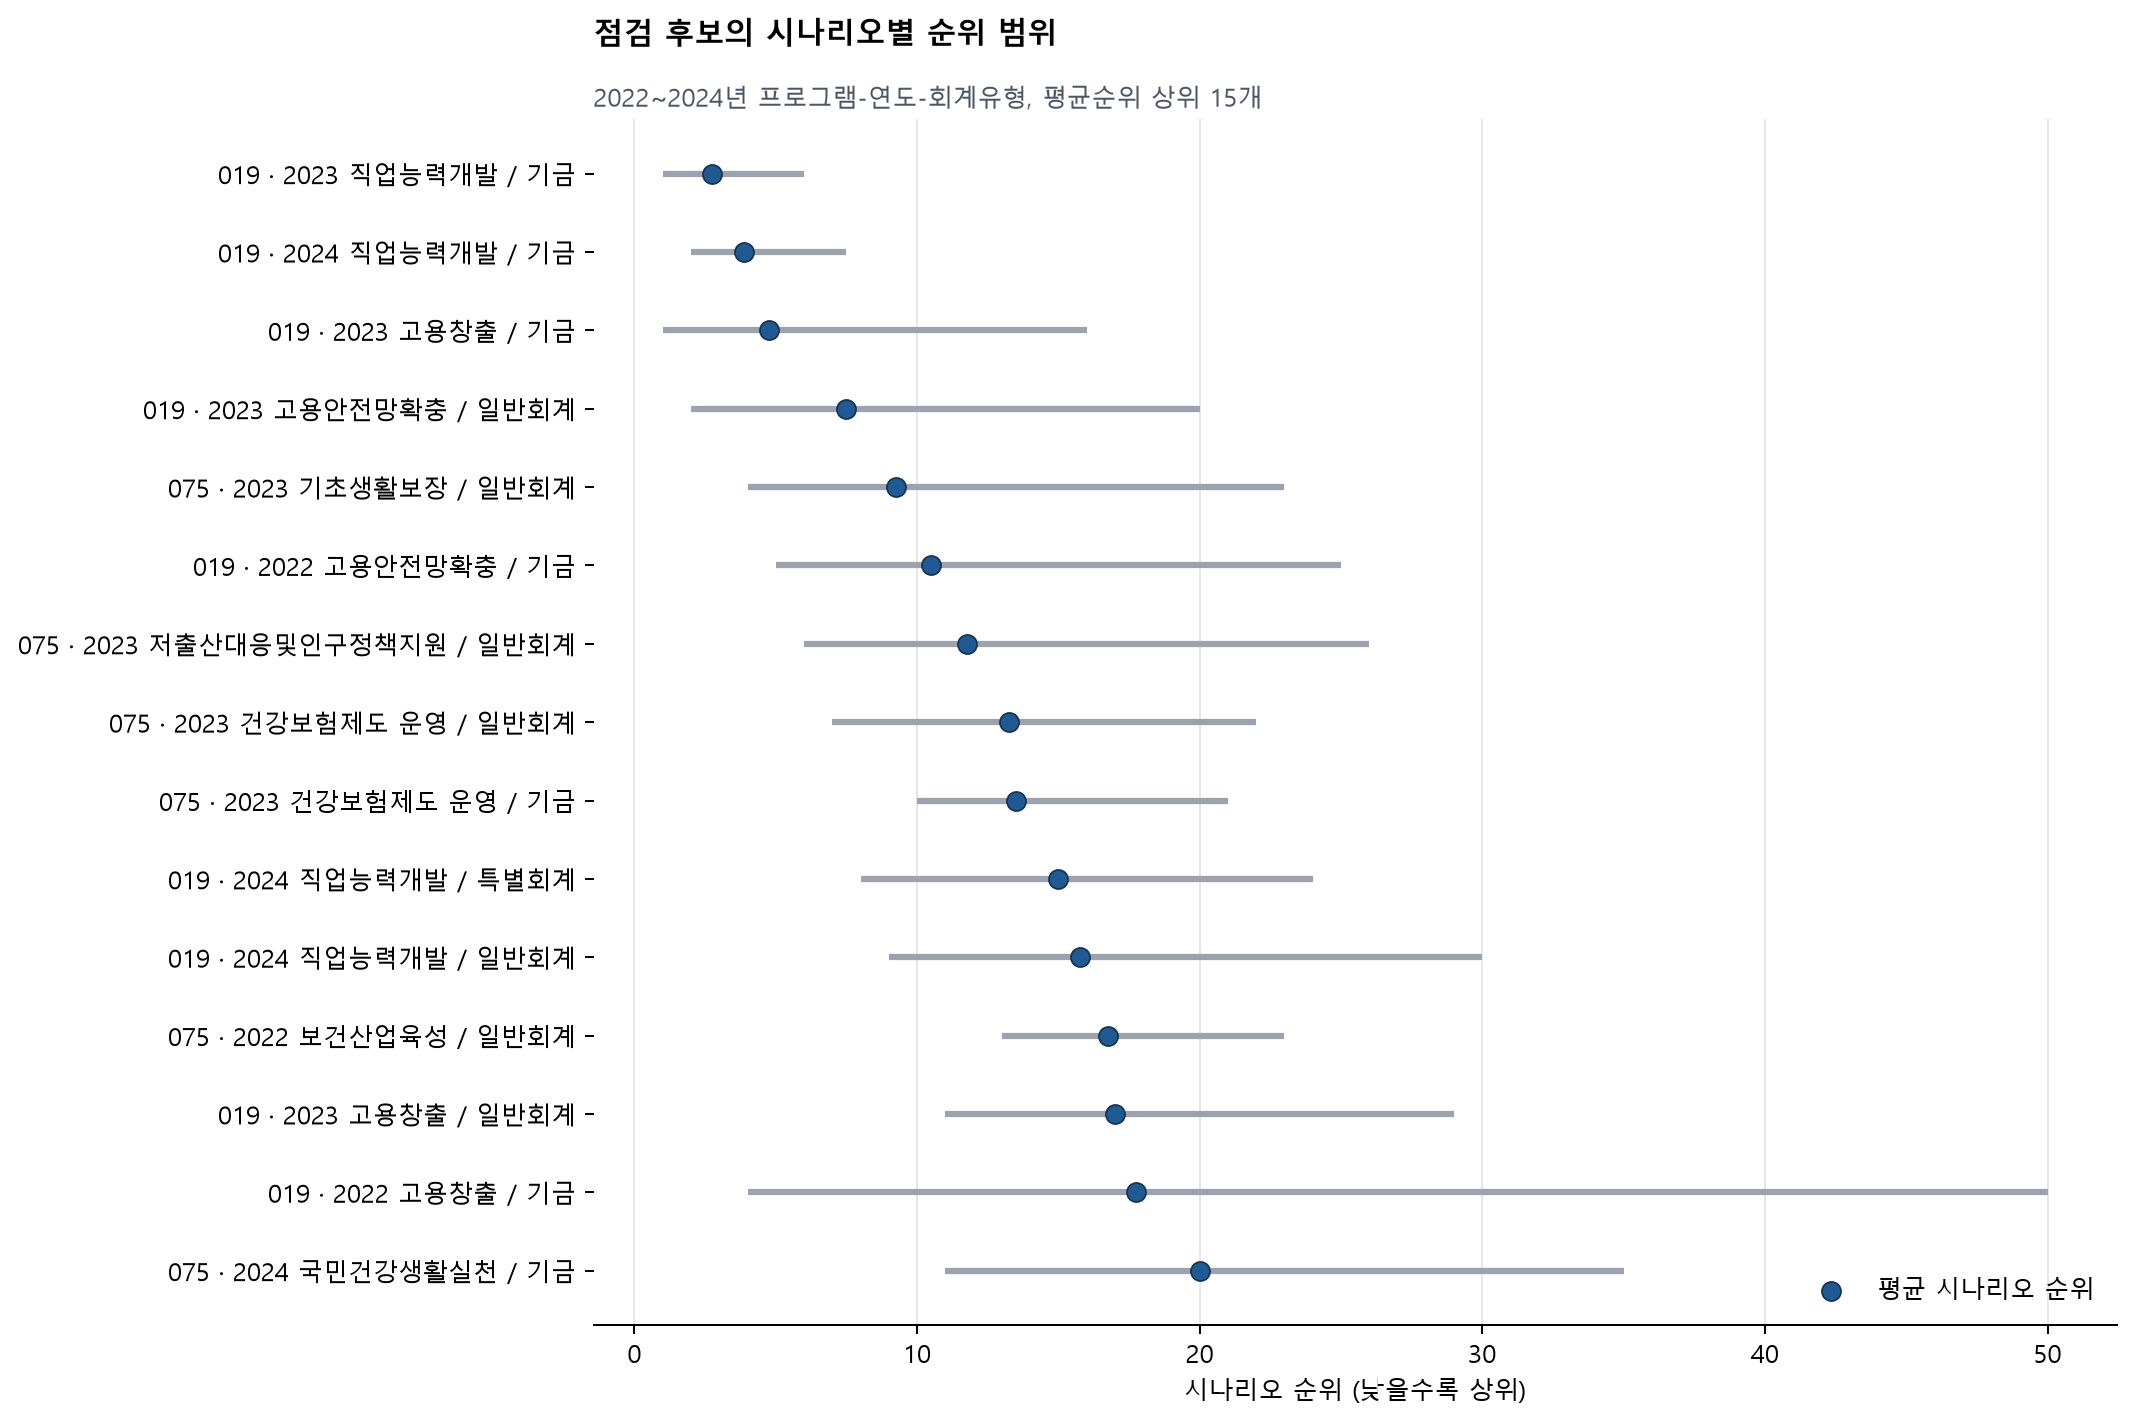
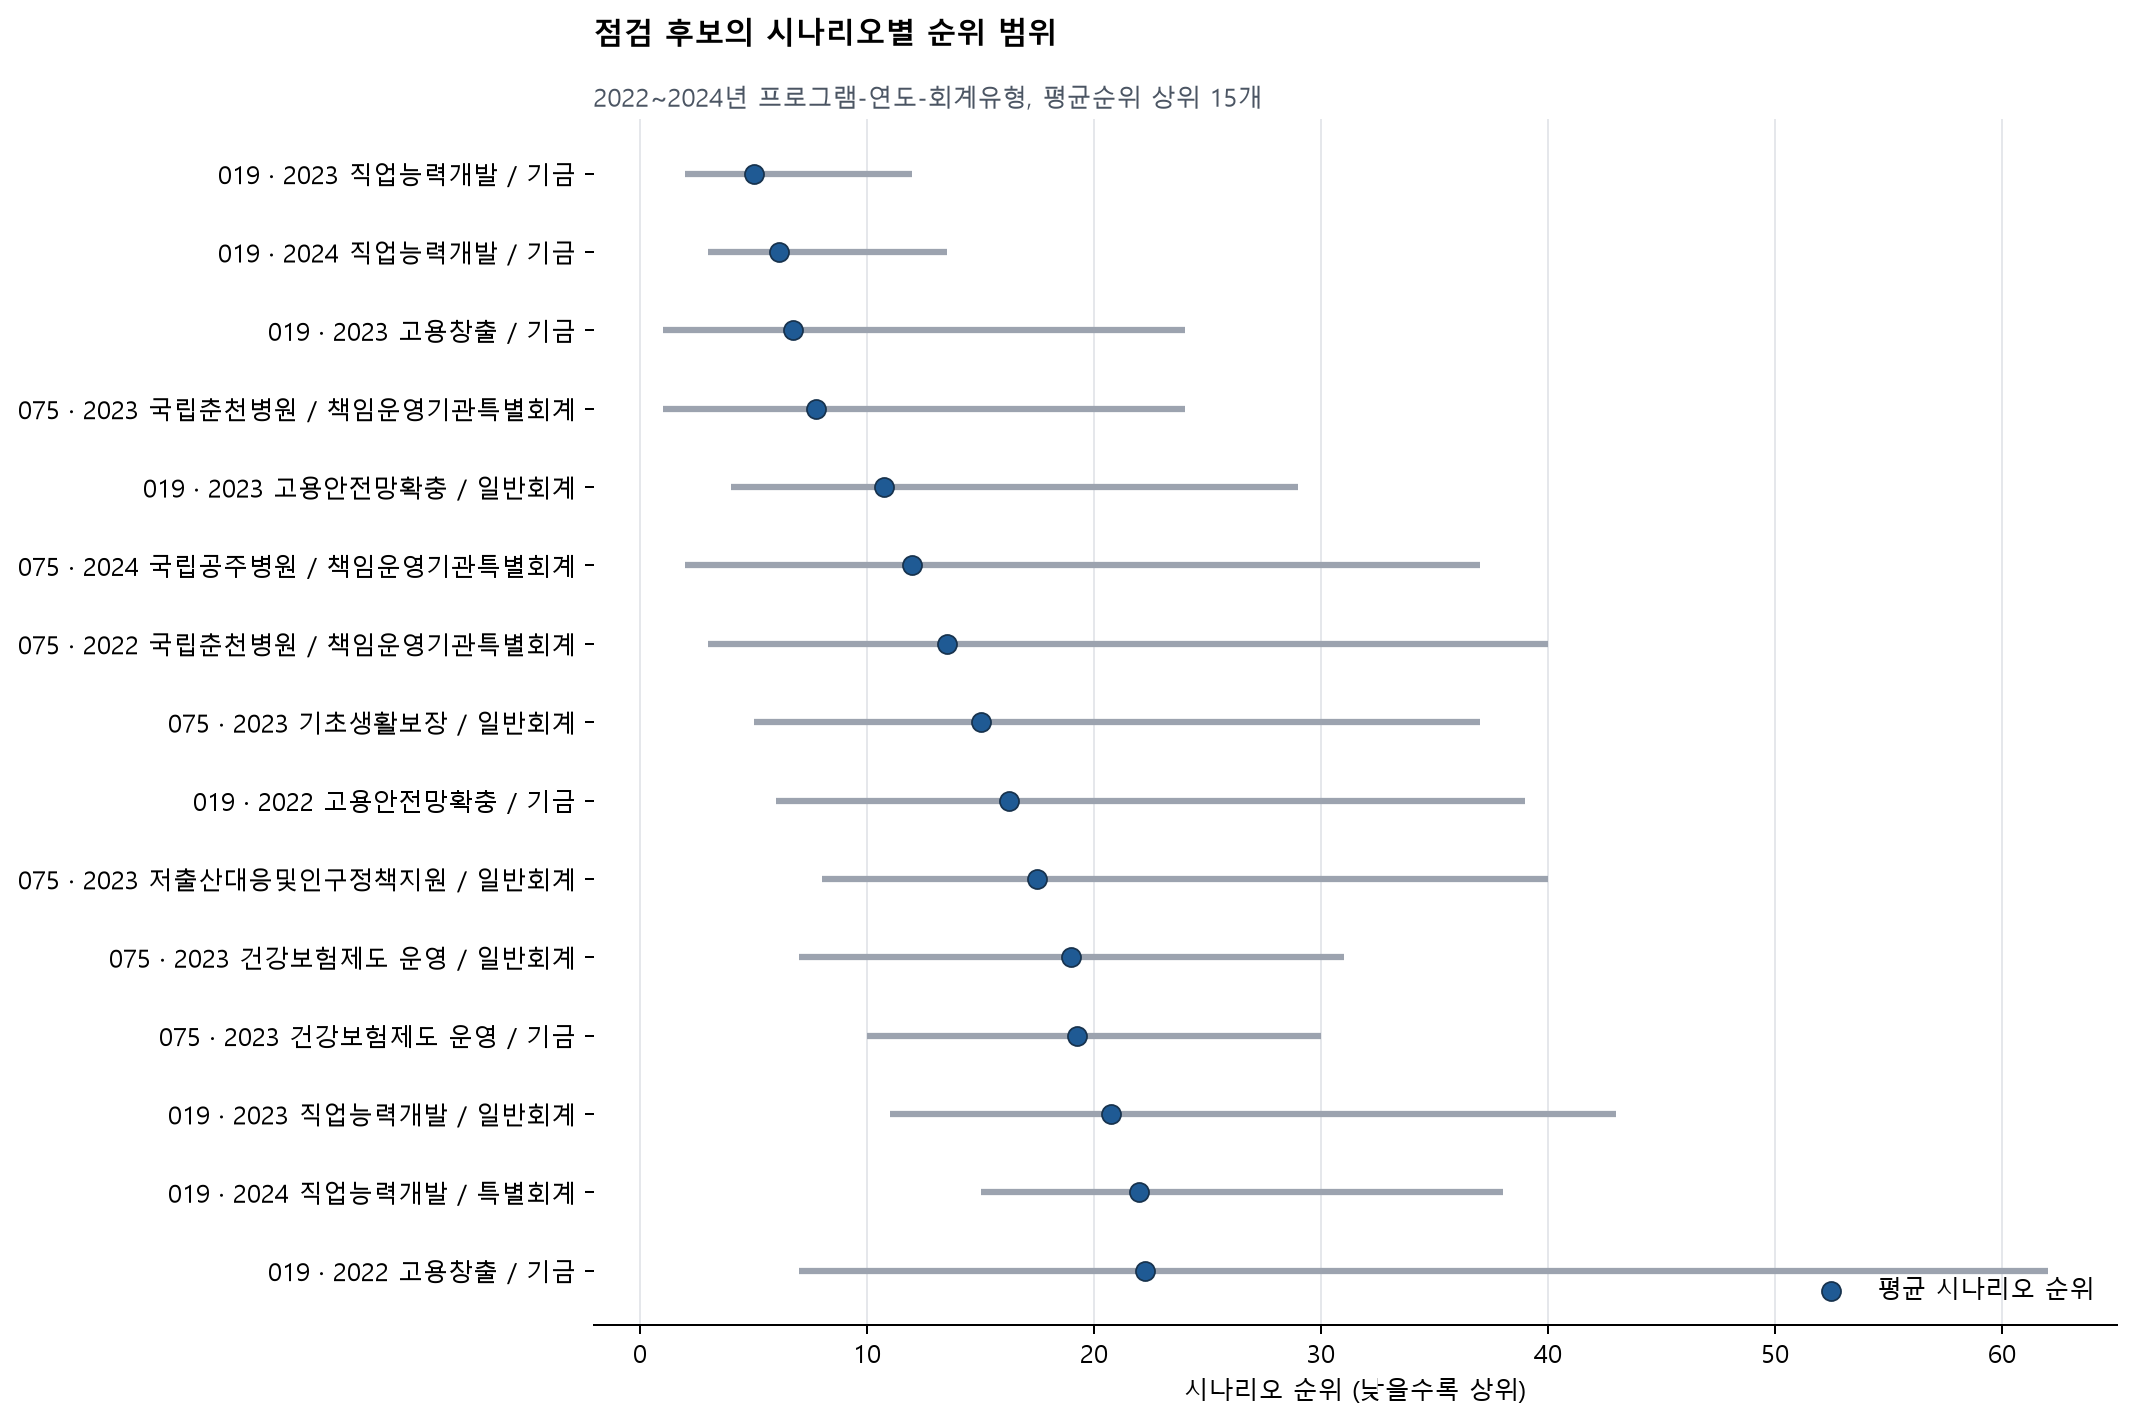
feat: update account type handling and enhance dashboard metrics
- Added "account_type_classified" to the analysis functions for improved account type classification.
- Updated dashboard metrics to include "RESPONSIBLE_OPERATION_ACCOUNT" in account type options.
- Adjusted test cases to reflect changes in account type handling and updated expected values accordingly.
- Enhanced visualizations and figures to support the new account type classifications.

diff --git a/tests/test_fiscal_dashboard.py b/tests/test_fiscal_dashboard.py
@@ -22,14 +22,19 @@ def test_dashboard_data_contract_and_filter() -> None:
         candidates,
         scope="순위 적격 후보",
         years=[2022, 2023, 2024],
-        account_types=["GENERAL_ACCOUNT", "SPECIAL_ACCOUNT", "FUND"],
+        account_types=[
+            "GENERAL_ACCOUNT",
+            "SPECIAL_ACCOUNT",
+            "RESPONSIBLE_OPERATION_ACCOUNT",
+            "FUND",
+        ],
         tiers=candidates["priority_tier"].dropna().unique().tolist(),
     )
 
     assert len(candidates) == 340
-    assert len(filtered) == 164
+    assert len(filtered) == 189
     assert filtered["scenario_ranking_eligible"].all()
-    assert data["scores"].shape == (656, 26)
+    assert data["scores"].shape == (756, 26)
     assert data["drilldown"].empty
     assert not data["drilldown"]["project_performance_attributed"].any()
     assert not data["stability"]["candidate_id"].duplicated().any()
@@ -48,8 +53,8 @@ def test_dashboard_data_contract_and_filter() -> None:
         tiers=candidates["priority_tier"].dropna().unique().tolist(),
     )
     assert len(full) == 340
-    assert full["data_validation_signal"].sum() == 67
-    assert len(_data_review_table(full.loc[full["data_validation_signal"]])) == 67
+    assert full["data_validation_signal"].sum() == 38
+    assert len(_data_review_table(full.loc[full["data_validation_signal"]])) == 38
     assert _component_summary("성과", 0.5)[0] == "50%"
     assert stable_program_summary(candidates, data["stability"]).empty
 
@@ -69,9 +74,9 @@ def test_dashboard_default_render() -> None:
     assert app.segmented_control[0].value == "1. 시작"
     assert [(metric.label, metric.value) for metric in app.metric[:4]] == [
         ("분석행", "340"),
-        ("점검 신호 있음", "209"),
-        ("순위 비교 가능", "164"),
-        ("데이터 먼저 확인", "67"),
+        ("점검 신호 있음", "221"),
+        ("순위 비교 가능", "189"),
+        ("데이터 먼저 확인", "38"),
     ]
     assert "이제 무엇을 하면 되는지 순서대로 보여드립니다" in [
         heading.value for heading in app.subheader
@@ -84,7 +89,7 @@ def test_dashboard_guided_steps_and_candidate_to_review() -> None:
     app.segmented_control[0].set_value("2. 데이터 확인").run()
     assert not app.exception
     assert "분석 전에 데이터부터 확인합니다" in [item.value for item in app.subheader]
-    assert any(frame.value.shape[0] == 67 for frame in app.dataframe)
+    assert any(frame.value.shape[0] == 38 for frame in app.dataframe)
 
     app.segmented_control[0].set_value("3. 후보 분석").run()
     assert not app.exception

diff --git a/src/analytics/mss_priority_scenario_analysis.py b/src/analytics/mss_priority_scenario_analysis.py
@@ -151,6 +151,7 @@ def aggregate_program_account_signals(
         features,
         {
             *KEY,
+            "account_type_classified",
             "project_id",
             "original_budget_analysis_amount",
             "rank_confidence",
@@ -175,6 +176,7 @@ def aggregate_program_account_signals(
     ].copy()
     source["ministry_code"] = source["ministry_code"].astype("string")
     source["program_code"] = source["program_code"].astype("string")
+    source["account_type"] = source["account_type_classified"].astype("string")
     if source["project_id"].duplicated().any():
         raise PriorityScenarioError("M3 재정 신호의 project_id가 중복되었습니다.")
 
@@ -265,6 +267,7 @@ def build_stable_top5_project_drilldown(
         features,
         {
             *KEY,
+            "account_type_classified",
             "project_id",
             "account_code",
             "account_name_budget_api",
@@ -337,6 +340,7 @@ def build_stable_top5_project_drilldown(
     source = features[feature_columns].copy()
     source["ministry_code"] = source["ministry_code"].astype("string").str.zfill(3)
     source["program_code"] = source["program_code"].astype("string")
+    source["account_type"] = features["account_type_classified"].astype("string")
     drilldown = source.merge(
         stable,
         on=KEY,
@@ -972,6 +976,7 @@ def _plot_rank_range(stability: pd.DataFrame, output: Path) -> None:
             {
                 "GENERAL_ACCOUNT": "일반회계",
                 "SPECIAL_ACCOUNT": "특별회계",
+                "RESPONSIBLE_OPERATION_ACCOUNT": "책임운영기관특별회계",
                 "FUND": "기금",
             }
         )

diff --git a/tests/analytics/test_mss_priority_scenario_analysis.py b/tests/analytics/test_mss_priority_scenario_analysis.py
@@ -51,6 +51,7 @@ def _manual_inputs() -> tuple[pd.DataFrame, pd.DataFrame]:
             "program_code": program,
             "fiscal_year": 2024,
             "account_type": "일반회계",
+            "account_type_classified": "일반회계",
             "project_id": f"project-{program}",
             "original_budget_analysis_amount": budget,
             "rank_confidence": "HIGH",
@@ -79,6 +80,21 @@ def test_manual_candidate_rules_and_budget_weighting() -> None:
     assert not candidates.loc["D", "review_candidate"]  # 규모만으로 후보를 만들지 않음
     assert candidates.loc["E", "priority_tier"] == "DATA_REVIEW"
     assert signals["project_signal_budget"].sum() == analysis["account_original_budget"].sum()
+
+
+def test_program_signals_use_classified_account_type() -> None:
+    _, features = _manual_inputs()
+    features.loc[0, "account_type"] = "SPECIAL_ACCOUNT"
+    features.loc[0, "account_type_classified"] = "RESPONSIBLE_OPERATION_ACCOUNT"
+
+    signals = aggregate_program_account_signals(
+        features.iloc[[0]],
+        ministry_code="102",
+        start_year=2024,
+        end_year=2024,
+    )
+
+    assert signals.loc[0, "account_type"] == "RESPONSIBLE_OPERATION_ACCOUNT"
 
 
 def test_manual_scenario_rank_stability() -> None:
@@ -138,6 +154,7 @@ def test_stable_drilldown_uses_ministry_program_year_account_key() -> None:
             "program_code": "2100",
             "fiscal_year": 2024,
             "account_type": "GENERAL_ACCOUNT",
+            "account_type_classified": "GENERAL_ACCOUNT",
             "project_id": project,
             "account_code": "110",
             "account_name_budget_api": "일반회계",

diff --git a/src/fiscal_dashboard/app.py b/src/fiscal_dashboard/app.py
@@ -30,6 +30,7 @@ MINISTRY_LABELS = {
 ACCOUNT_LABELS = {
     "GENERAL_ACCOUNT": "일반회계",
     "SPECIAL_ACCOUNT": "특별회계",
+    "RESPONSIBLE_OPERATION_ACCOUNT": "책임운영기관특별회계",
     "FUND": "기금",
     "NOT_AVAILABLE": "회계유형 미확인",
 }
